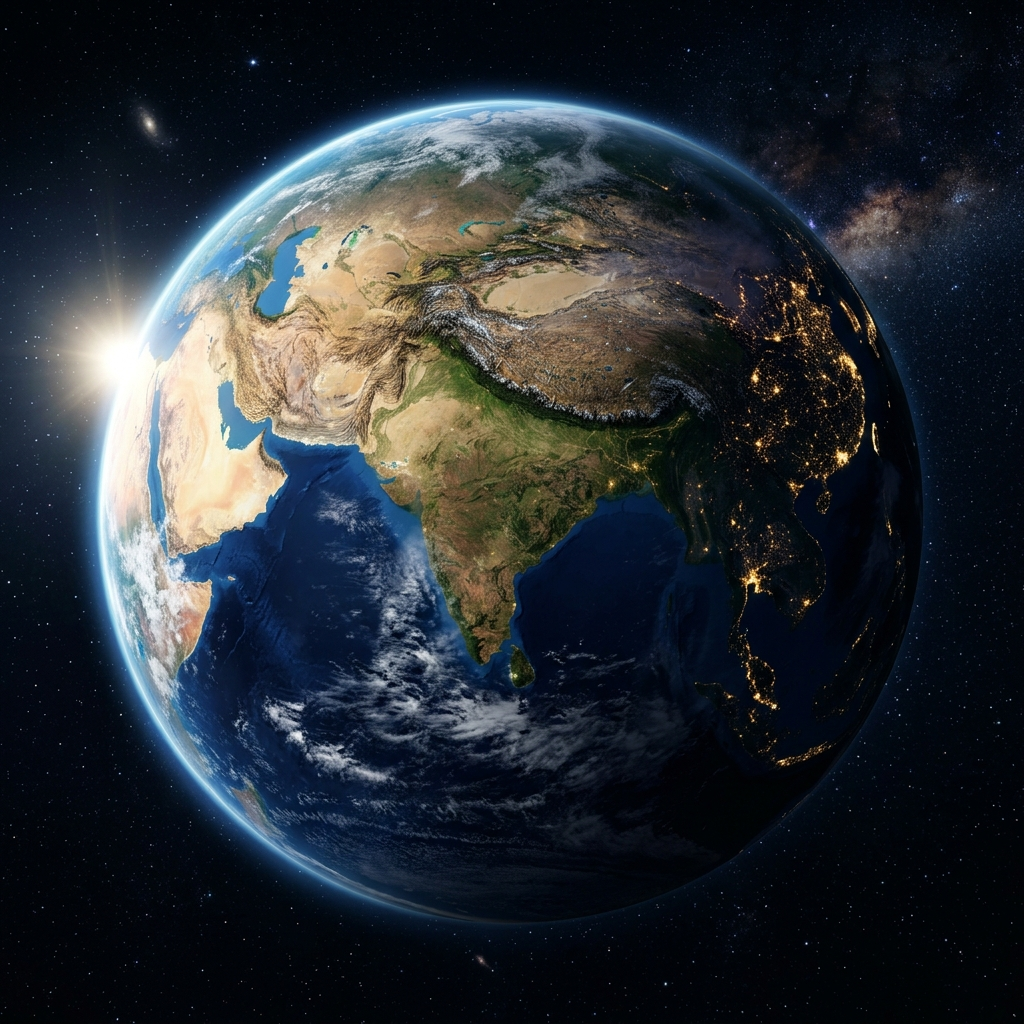
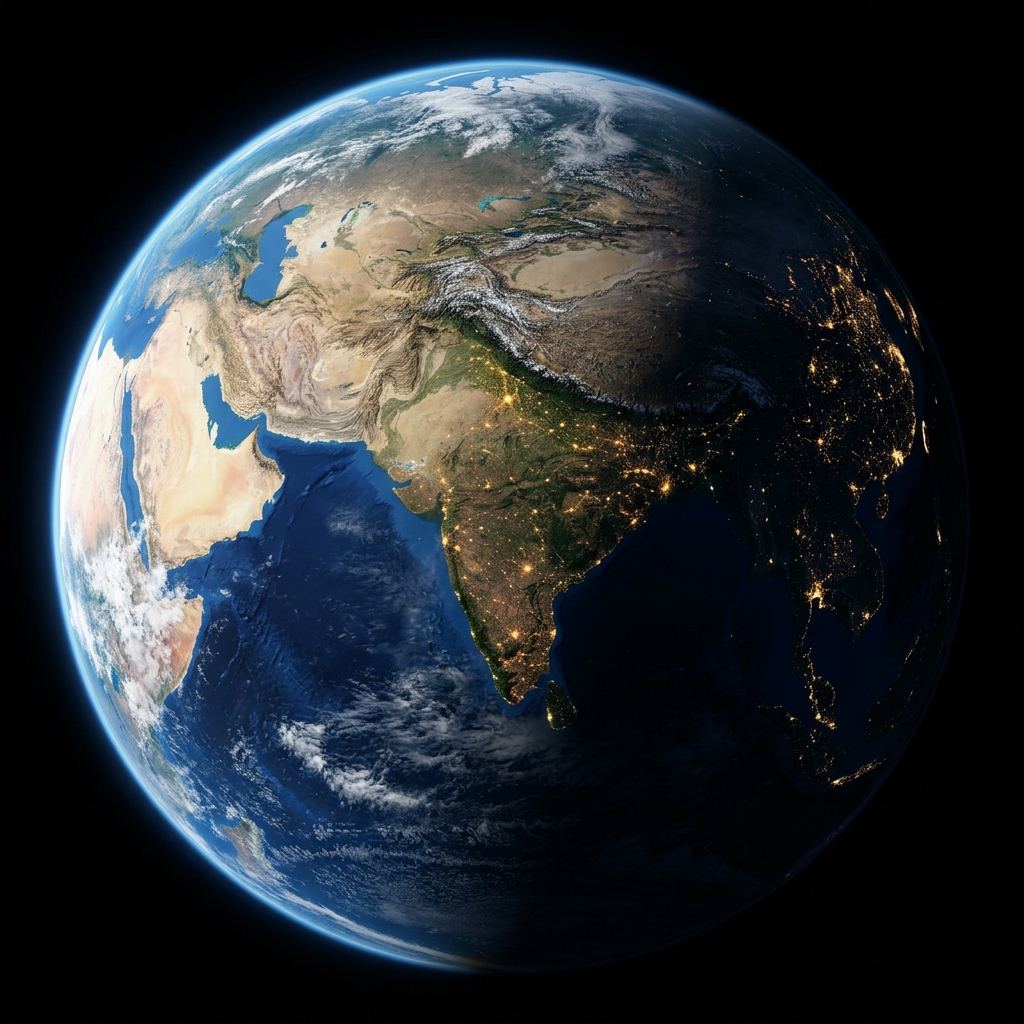
Refine Earth visual with cinematic render and multi-layered CSS glow

diff --git a/src/components/Sections/AboutSection.jsx b/src/components/Sections/AboutSection.jsx
@@ -10,14 +10,23 @@ const AboutSection = () => {
         <SectionContainer id="about" className="min-h-screen">
             <div className="grid md:grid-cols-2 gap-12 items-center">
                 {/* Planet Image */}
-                <div className="relative h-64 md:h-96 w-full flex items-center justify-center">
-                    <div className="relative w-64 h-64 md:w-80 md:h-80 group">
-                        <div className="absolute inset-0 bg-blue-500 rounded-full blur-[50px] opacity-20 group-hover:opacity-40 transition-opacity duration-500" />
-                        <img 
-                            src={planetImg} 
-                            alt="Planet" 
-                            className="w-full h-full object-cover rounded-full shadow-[0_0_50px_rgba(0,112,255,0.4)] animate-spin-slow"
-                        />
+                <div className="relative h-72 md:h-[450px] w-full flex items-center justify-center">
+                    <div className="relative w-64 h-64 md:w-[400px] md:h-[400px] group">
+                        {/* Multiple glow layers for depth */}
+                        <div className="absolute inset-0 bg-blue-600 rounded-full blur-[80px] opacity-20 group-hover:opacity-30 transition-opacity duration-700" />
+                        <div className="absolute inset-[-20px] bg-blue-400 rounded-full blur-[40px] opacity-10" />
+                        
+                        {/* The Image */}
+                        <div className="relative w-full h-full rounded-full overflow-hidden shadow-[0_0_80px_rgba(30,144,255,0.3)] animate-spin-slow">
+                            <img 
+                                src={planetImg} 
+                                alt="Earth" 
+                                className="w-full h-full object-cover scale-110" 
+                            />
+                        </div>
+
+                        {/* Glossy Overlay for 3D effect */}
+                        <div className="absolute inset-0 rounded-full bg-gradient-to-tr from-transparent via-white/5 to-white/10 pointer-events-none" />
                     </div>
                 </div>
 
